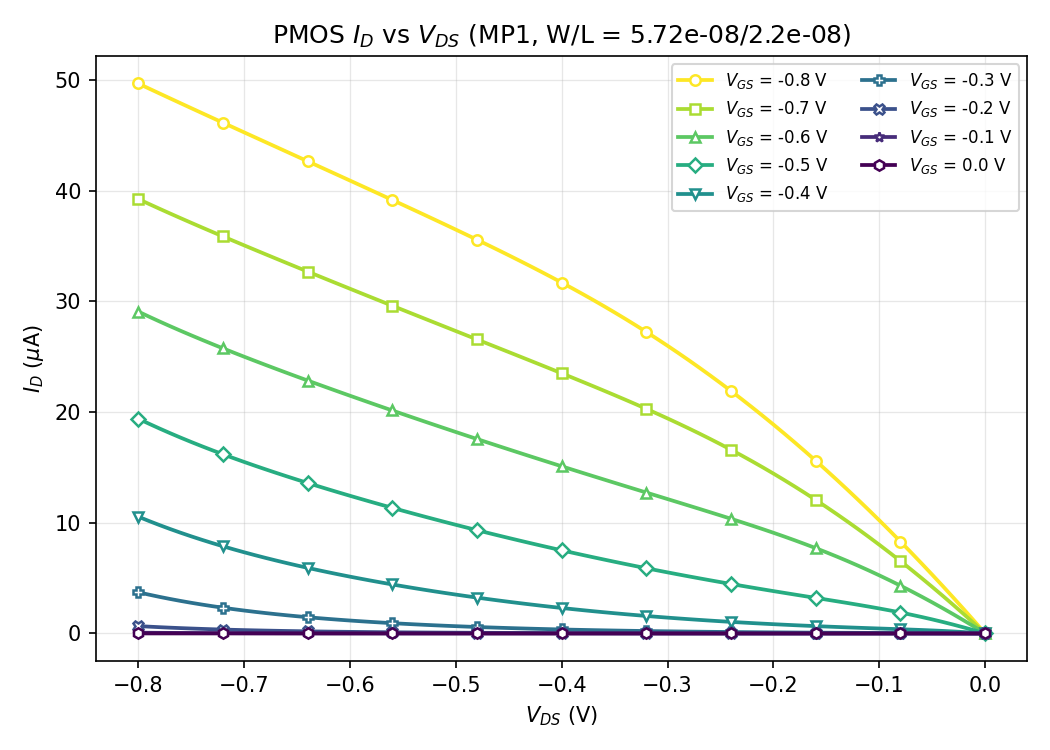
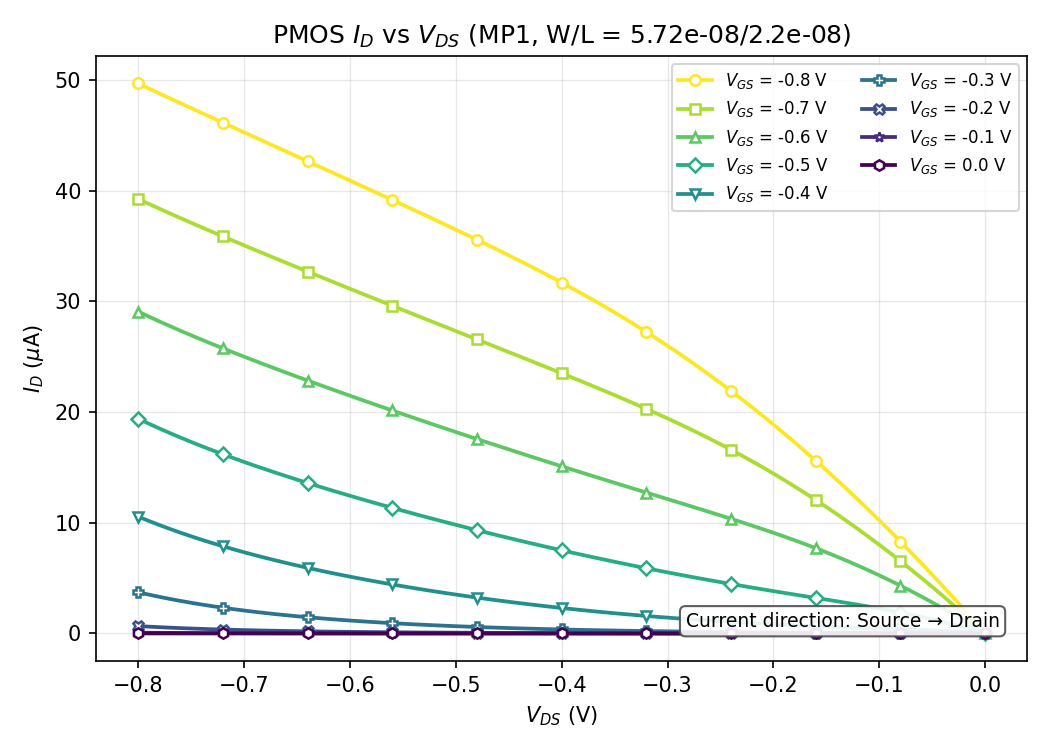
Reorganize lab3.md (plots up top, tables at end) and annotate current direction
Move both family-of-curves plots ahead of the data-table appendices,
and add a current-direction annotation to each plot following the
standard MOSFET reference convention: source-to-drain for PMOS,
drain-to-source for NMOS.

Claude-Session: https://claude.ai/code/session_01F36KjKzhkbqWfn9zbV8tPj

Changed region(s): [[0.64, 0.7973, 0.9752, 0.8587]]

diff --git a/lab3/lab3.md b/lab3/lab3.md
@@ -1,9 +1,9 @@
-# LAB 3 PMOS I-V Characteristics
+# LAB 3 MOSFET I-V Characteristics
 
 Technology: 22nm PTM-HP\
 Nominal VDD = 0.8 V\
 k = 1.3 (Wp/Wn), Wn = 44nm, Wp = k\*Wn (from Lab 1)\
-Single PMOS device (`MP1`), source and body tied to VDD, characterized with `VGATE` and `VDRAIN` sweeping the gate and drain nodes referenced to ground.
+Single PMOS (`MP1`) and single NMOS (`MN1`) devices, each characterized separately with `VGATE` and `VDRAIN` sweeping the gate and drain nodes. Plotted current direction follows the standard MOSFET reference convention: source-to-drain for PMOS, drain-to-source for NMOS.
 
 ## Lab 3.0
 ### Drain current vs. VDS, family of curves over VGS
@@ -13,6 +13,13 @@ Single PMOS device (`MP1`), source and body tied to VDD, characterized with `VGA
 Drain current I_D is read from `i(vdrain)` (the VDRAIN source branch current, equal and opposite to `i(vdd)` by KCL).
 
 ![PMOS I_D vs V_DS family of curves](results_pmos/iv_curves.png)
+
+## Lab 3.1
+### NMOS drain current vs. VDS, family of curves over VGS
+
+Same nested sweep as Lab 3.0, but on `MN1` (source/body tied to VSS = 0V), so VDS = vdrain and VGS = vgate directly (both range 0 V to 0.8 V). Drain current I_D is read as `-i(vdrain)` (sign flipped relative to the PMOS case, since the source reference sits at the low rail here instead of VDD, to report a positive I_D that grows with VGS/VDS).
+
+![NMOS I_D vs V_DS family of curves](results_nmos/iv_curves.png)
 
 ## Appendix: PMOS I-V sweep data (`iv_curve_pmos.sp`)
 
@@ -789,13 +796,6 @@ Drain current I_D is read from `i(vdrain)` (the VDRAIN source branch current, eq
 | -0.020 | 6.006131e-12 |
 | -0.010 | 3.187962e-12 |
 | 0.000 | -3.089810e-26 |
-
-## Lab 3.1
-### NMOS drain current vs. VDS, family of curves over VGS
-
-Same nested sweep as Lab 3.0, but on `MN1` (source/body tied to VSS = 0V), so VDS = vdrain and VGS = vgate directly (both range 0 V to 0.8 V). Drain current I_D is read as `-i(vdrain)` (sign flipped relative to the PMOS case, since the source reference sits at the low rail here instead of VDD, to report a positive I_D that grows with VGS/VDS).
-
-![NMOS I_D vs V_DS family of curves](results_nmos/iv_curves.png)
 
 ## Appendix: NMOS I-V sweep data (`iv_curve_nmos.sp`)
 
